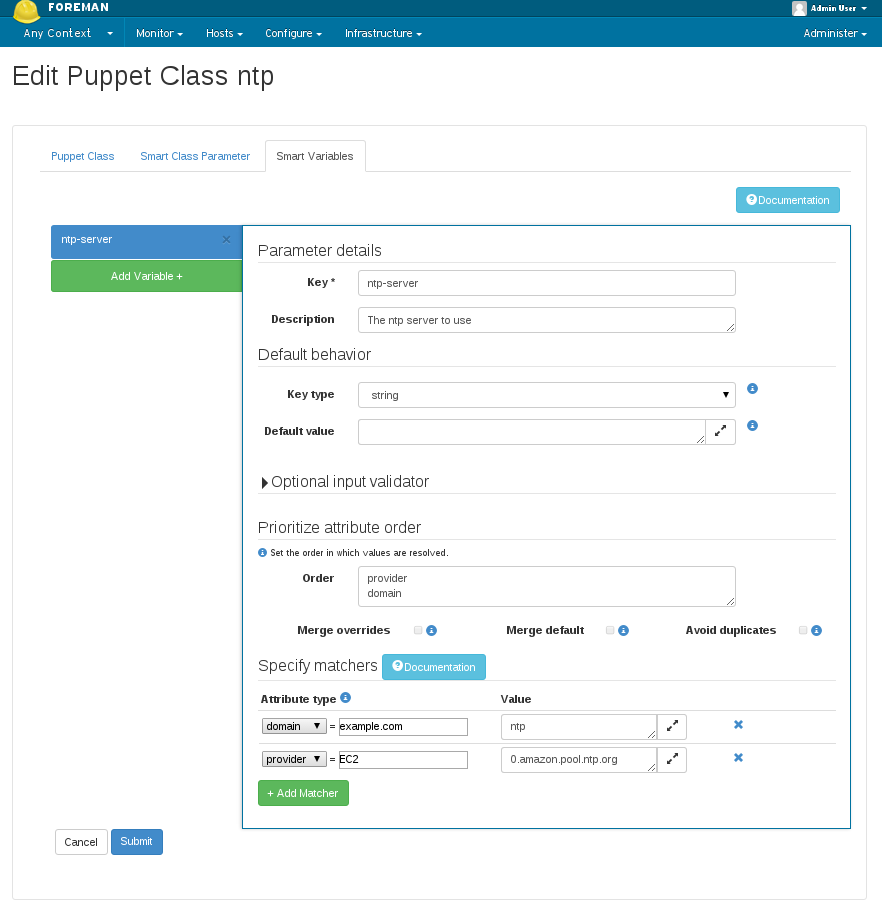
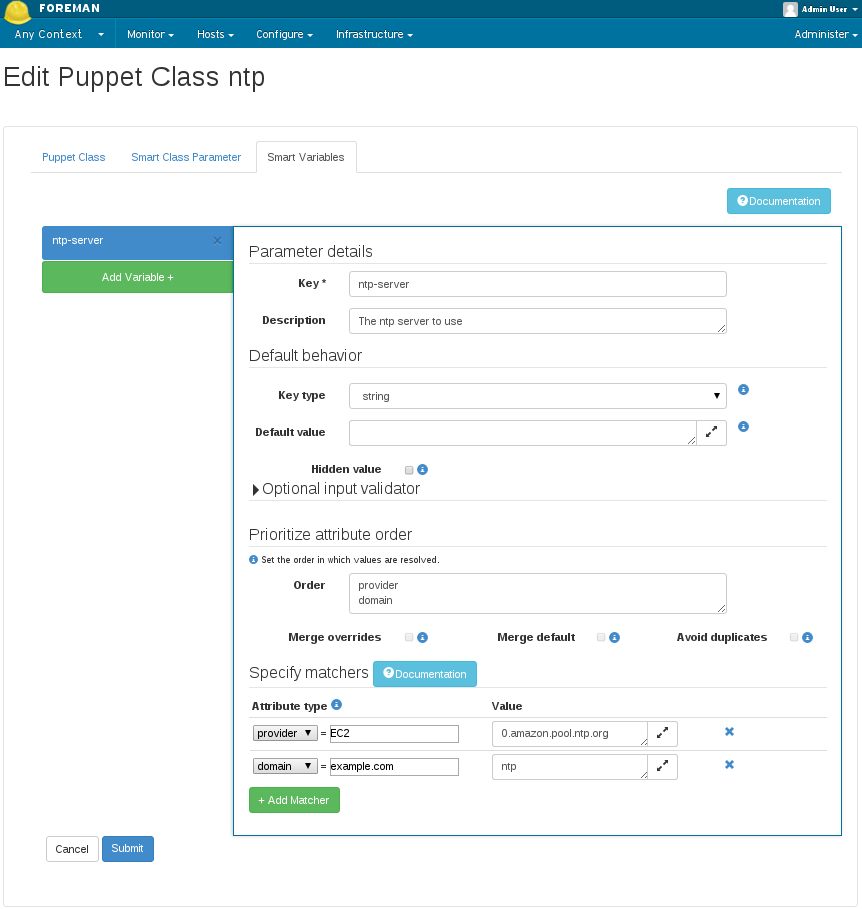
Adding hidden_value in smart class parameters and variables

diff --git a/_includes/manuals/1.10/4.2.5_param_classes.md b/_includes/manuals/1.10/4.2.5_param_classes.md
@@ -39,6 +39,8 @@ Lets configure the *foreman* class to change the user the foreman processes run 
    * The type of data we want to pass. Most commonly a string, but many other data types are supported. There's no easy way to tell what type of data Puppet is expecting, so you will need to read through the code/documentation that comes with a particular module to find out. Changing the type field requires an appropriately set "Default Value" field.
 * Default Value
    * This will be imported from Puppet initially, but if Puppet is using any class inheritance, you'll get something unhelpful like "${$foreman::params::user}". This is because Foreman won't follow the inheritance, so you'll need to set a sensible default value
+* Hidden value
+   * Should the values of the smart class parameters be hidden.
 
 Ok, so let's configure our *user* parameter. We want to tick Override, set type to "String" and set the default value to "foreman", like so:
 
@@ -72,6 +74,10 @@ see the [Smart Matchers](manuals/{{page.version}}/index.html#4.2.6SmartMatchers)
 If Foreman manages the value of a class parameter ("override = true"), it's also possible to update a host-specific override from the host itself. That way you don't have to grant access to the Puppet Classes page to everyone. From a Host, click Edit, go to the Parameters tab, and you'll see the variable, the class-scope, and the current value. You can then override the value for that host:
 
 ![Host Edit](/static/images/screenshots/param_classes_110/hostedit.png)
+
+If the value is hidden you can click the unhide button to temporarily see the value while you edit. Clicking the button won't change the hidden property for the parameter, only show it for edit purpose.
+
+![Hide button](/static/images/screenshots/param_classes_110/hide_button.png)
 
 If you go back and look at the Puppet class, you'll see Foreman has added a matcher for that host:
 

diff --git a/_includes/manuals/1.10/4.2.4_smart_vars.md b/_includes/manuals/1.10/4.2.4_smart_vars.md
@@ -31,6 +31,10 @@ Click New Variable, and you will be presented with a set of input fields:
       <td>Default Value</td>
       <td>Value supplied to the ENC if no other criteria is matched</td>
     </tr>
+     <tr>
+       <td>Hidden value</td>
+       <td>Should the values of the smart variable be hidden</td>
+     </tr>
 </tbody></table>
 
 Once you've created the defaults for your smart variable, you can then add at least one criterion to match against - click the "Add Matcher" button at the bottom of the form and a new row will be added to the matchers table:
